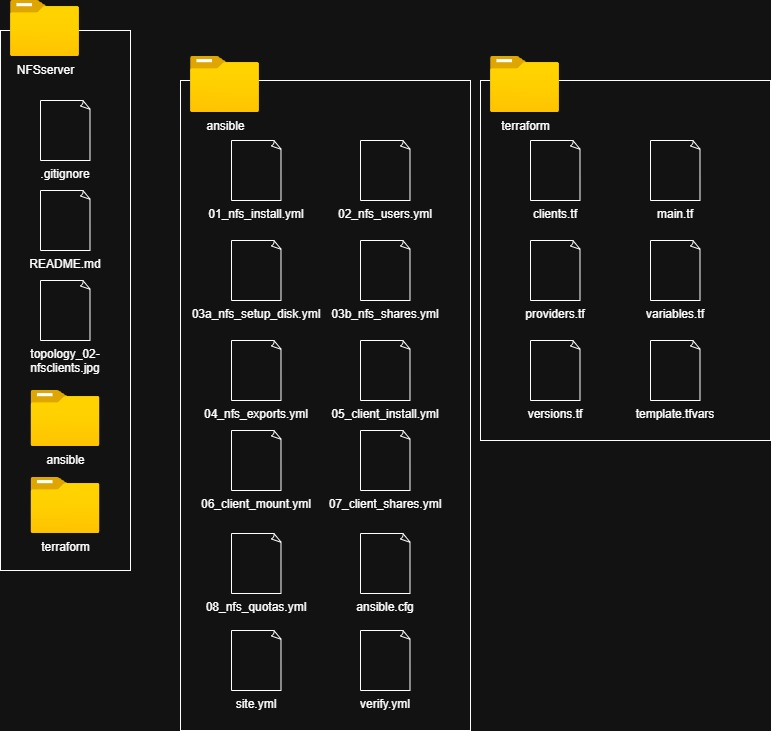
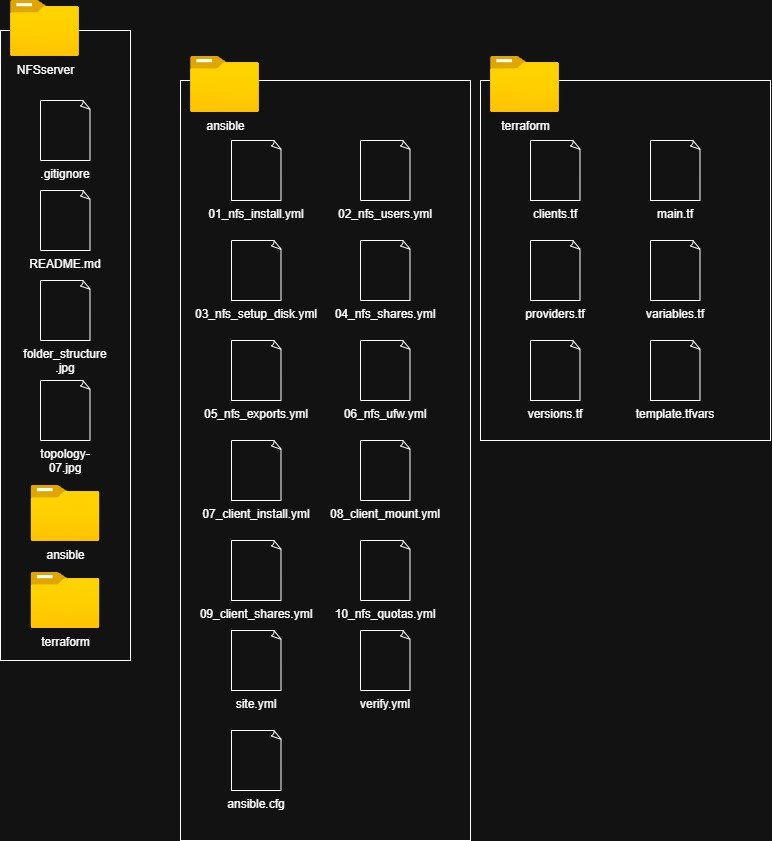
updated folder structure image in draw.io

diff --git a/README.md b/README.md
@@ -32,12 +32,12 @@ This is the default project environment:
 
 | VM | Role | IP | Description |
 |---|---|---|---|
-|ansible-controller|Ansible control node|192.168.1.41|Runs Ansible playbooks|
+|ansible-controller|Ansible control node|192.168.1.41|Lab orchestration through Ansible|
 |fileserver|NFS Server|192.168.1.42|NFS Fileserver sets up shares|
 |client-legal|Client|192.168.1.43|Client PC for Legal team, mounts NFS shares|
 |client-sales|Client|192.168.1.44|Client PC for Sales team, mounts NFS shares|
 
-Note: These IP addresses are the default in template.tfvars, when you set up your own secrets-file you can set other IPs.
+Note: These IP addresses are the default in template.tfvars, when you set up your own secrets-file you can define your own IPs.
 
 ## Folder Structure
 ![Description](./folder_structure.jpg)